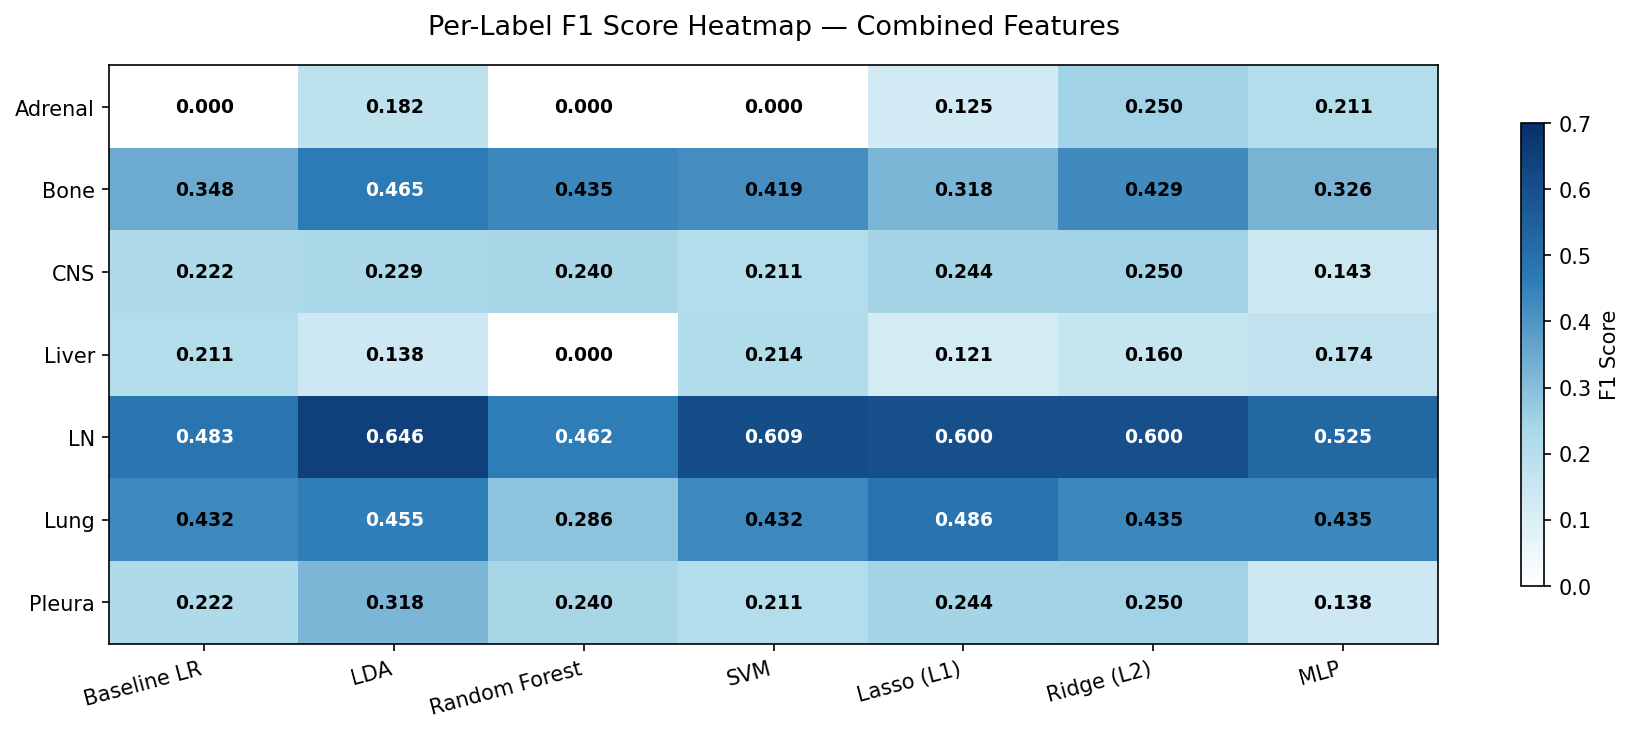
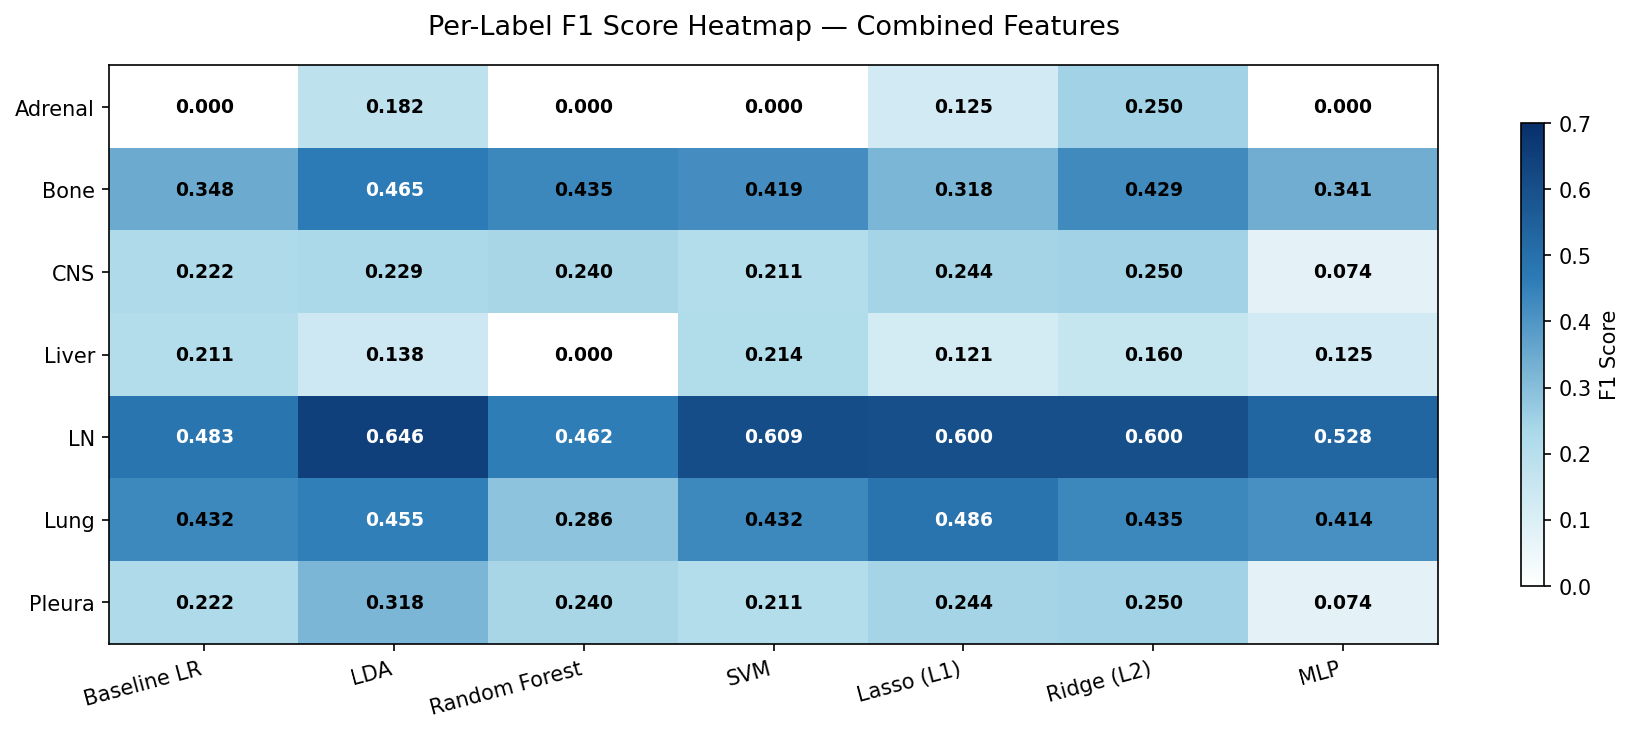
multilabel figures updated

diff --git a/utils/visualize.py b/utils/visualize.py
@@ -53,13 +53,13 @@ OUTPUT_DIR = 'results/figures'
 
 
 # helper function
-def load_eval(feature_set: str) -> pd.DataFrame:
+def load_eval(feature_set: str, task) -> pd.DataFrame:
     """Load evaluation CSV and add MLP results if genomic."""
-    path = f'results/evaluation/evaluation_{feature_set}.csv'
+    path = f'results/evaluation/{task}/evaluation_{feature_set}.csv'
     df = pd.read_csv(path, index_col=0)
 
     # need to merge MLP results if genomic pipeline since in separate script
-    mlp_path = f'results/evaluation/evaluation_{feature_set}_mlp.csv'
+    mlp_path = f'results/evaluation/{task}/evaluation_{feature_set}_mlp.csv'
     if os.path.exists(mlp_path):
         mlp = pd.read_csv(mlp_path, index_col=0)
         df = pd.concat([df, mlp], axis=1)
@@ -74,7 +74,7 @@ def save_figure(fig, name: str, feature_set: str):
     if feature_set not in ['clinical', 'genomic', 'combined']:
         dir = f'{OUTPUT_DIR}/other'
 
-    else: dir = f'{OUTPUT_DIR}/{feature_set}'
+    else: dir = f'{OUTPUT_DIR}/{feature_set}/'
     os.makedirs(dir, exist_ok=True)
     path = os.path.join(dir, f'{feature_set}_{name}.png')
     fig.savefig(path, dpi=FIGURE_DPI, bbox_inches='tight')
@@ -140,15 +140,15 @@ def plot_per_label_heatmap(feature_set: str):
     # per-label F1 data from final runs
     # genomic pipeline results
 
-    genomic_per_label = load_eval('genomic')
+    genomic_per_label = load_eval('genomic', 'multilabel')
     genomic_per_label = genomic_per_label[genomic_per_label.index.str.startswith('test_f1_')]
     genomic_per_label.index = genomic_per_label.index.map(label_map)
 
-    clinical_per_label = load_eval('clinical')
+    clinical_per_label = load_eval('clinical', 'multilabel')
     clinical_per_label = clinical_per_label[clinical_per_label.index.str.startswith('test_f1_')]
     clinical_per_label.index = clinical_per_label.index.map(label_map)
 
-    combined_per_label = load_eval('combined')
+    combined_per_label = load_eval('combined', 'multilabel')
     combined_per_label = combined_per_label[combined_per_label.index.str.startswith('test_f1_')]
     combined_per_label.index = combined_per_label.index.map(label_map)
 
@@ -198,7 +198,7 @@ def plot_class_distribution():
     Shared across both pipelines — same dataset.
     Only generated once.
     """
-    y = pd.read_csv('data/processed/y.csv')
+    y = pd.read_csv('data/processed/y_multilabel.csv')
     y = y.drop(columns=[c for c in ['sampleId', 'patientId'] if c in y.columns])
 
     counts = y.sum().values
@@ -370,14 +370,19 @@ def main():
     parser.add_argument('--feature_set', '-f', type=str,
                         choices=['genomic', 'clinical', 'combined'],
                         required=True)
+    
+    parser.add_argument('--task', '-t', type=str,
+                        choices=['binary', 'multilabel'],
+                        required=True)
     args = parser.parse_args()
     feature_set = args.feature_set
+    task = args.task
 
     print(f'\nGenerating visualizations for: {feature_set}')
     print('=' * 50)
 
     # load evaluation results
-    df = load_eval(feature_set)
+    df = load_eval(feature_set, task)
 
     # Figure 1 — model comparison
     plot_model_comparison(df, feature_set)
